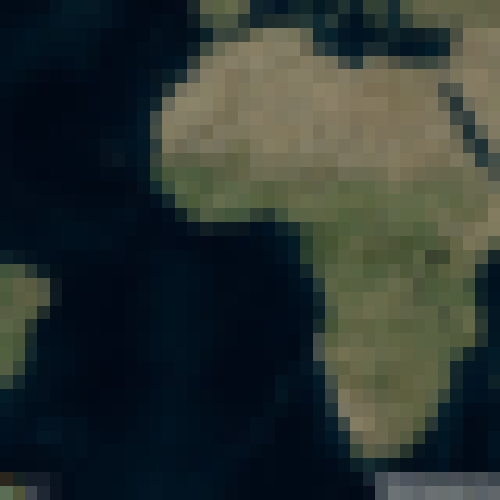
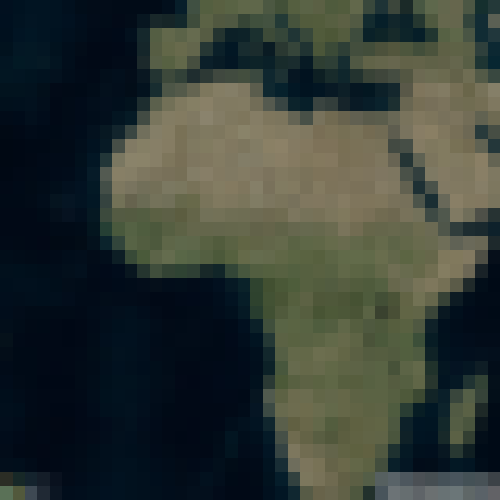
17h

diff --git a/UDPSocket.py b/UDPSocket.py
@@ -35,22 +35,26 @@ class GBServer:
             zoom = data[8]
             self.zoom = zoom + 1
             if h < 0: # left
-                print("Left")
-                self.x -= (240 / self.zoom)
+                self.x -= (240 / self.zoom**2)
             elif h > 0: # right
-                print("Right")
-                self.x += (240 / self.zoom)
+                self.x += (240 / self.zoom**2)
             if v < 0: # Down
-                print("Up")
-                self.y -= (240 / self.zoom)
+                self.y -= (240 / self.zoom**2)
             elif v > 0:  # Up
-                print("Up")
-                self.y += (240 / self.zoom)
+                self.y += (240 / self.zoom**2)
+            if self.x > 180:
+                self.x = -360 + self.x
+            if self.x < -180:
+                self.x = 360 - self.x
+            if self.y > 90:
+                self.y = -180 + self.y
+            if self.y < -90:
+                self.y = 180 - self.y
             return asyncio.run(self.request_gb_bytes())
         except Exception as e:
-            return b"\x02" + bytes(e.__class__.__name__)
+            return b"\x02" + bytes(e.__class__.__name__, encoding="ASCII")
 
-    async def request_gb_bytes(self):
+    async def request_gb_bytes(self) -> bytes:
         png = await self.mapRequester.request_image_by_center(self.x, self.y, 3)
         img = ImageEditor.lower_resolution_to(png, 40, 36)
         tiles = ImageEditor.img_to_tiles(img)

diff --git a/test_client.py b/test_client.py
@@ -10,8 +10,14 @@ bufferSize = 1024
 
 # Create a UDP socket at client side
 
-with socket.socket(family=socket.AF_INET, type=socket.SOCK_DGRAM) as s:
-    s.connect(serverAddressPort)
-    s.sendall(bytesToSend)
-    data = s.recv(1024)
-    print(f"Received {data!r}")
+UDPClientSocket = socket.socket(family=socket.AF_INET, type=socket.SOCK_DGRAM)
+
+# Send to server using created UDP socket
+print('send to')
+UDPClientSocket.sendto(bytesToSend, serverAddressPort)
+
+msgFromServer = UDPClientSocket.recvfrom(bufferSize)
+
+msg = "Message from Server {}".format(msgFromServer[0])
+
+print(msg)
